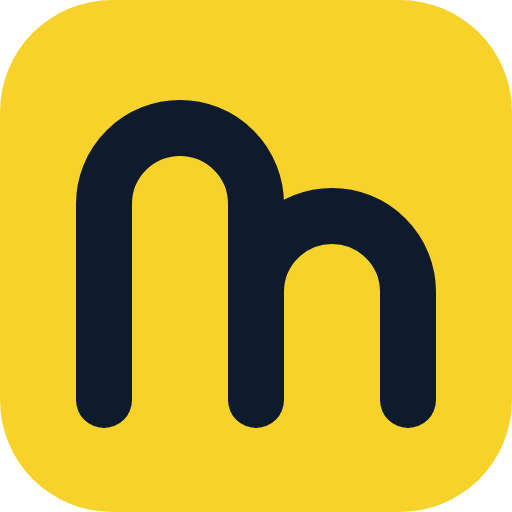
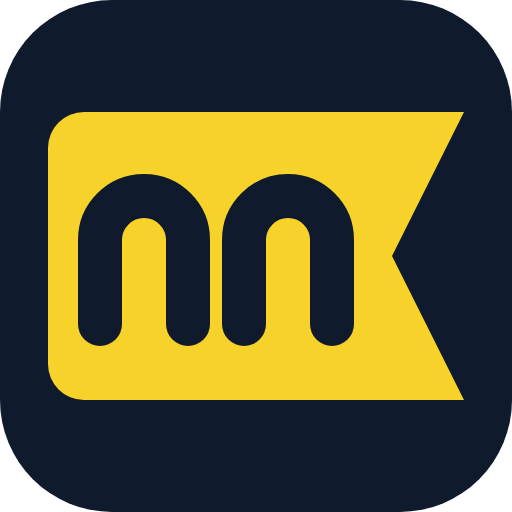
브랜드: 심볼을 후보 A(nn 라벨 태그)로 확정
mark.svg, favicon.svg(16px용으로 nn을 굵게 한 판), icon-512, apple-touch-icon,
favicon-32, 플러그인 icon.png, og.png를 교체하고 디자인 문서의 심볼 규칙을 고쳤다.

diff --git a/web/styleguide.html b/web/styleguide.html
@@ -72,7 +72,7 @@
 
   <section class="sg-sec" id="brand" aria-labelledby="h-brand">
     <h2 id="h-brand">브랜드</h2>
-    <p>노란 케이블 라벨에 <code>conn</code>을 적고, 라벨 밖에 서비스 이름을 둡니다. 글자는 글꼴이 아니라 SVG 경로입니다. 계단형 이중 아치는 심볼에만 씁니다.</p>
+    <p>노란 케이블 라벨에 <code>conn</code>을 적고, 라벨 밖에 서비스 이름을 둡니다. 글자는 글꼴이 아니라 SVG 경로입니다. 심볼은 <code>conn</code> 라벨이 <code>nn</code>만 품고 줄어든 노치 태그입니다(인트로 <code>/intro.html</code>).</p>
 
     <h3 class="sg-h3">심볼 <code>mark.svg</code> · 파비콘 <code>favicon.svg</code></h3>
     <div class="sg-row sg-row--end">

diff --git a/docs/design/foundation.md b/docs/design/foundation.md
@@ -46,7 +46,7 @@ home, wiki, memo, agent, session, team, settings, admin, search, plus, check, x,
 
 ## 브랜드와 사진
 - 워드마크: `/assets/brand/wordmark.svg`(밝은 바탕), `/assets/brand/wordmark-on-ink.svg`(잉크 바탕), `/assets/brand/wordmark-connpass.svg`(자매 서비스)
-- 심볼: `/assets/brand/mark.svg`. 계단형 이중 아치는 심볼에만 쓴다.
+- 심볼: `/assets/brand/mark.svg` (노치 있는 노란 라벨 태그 + `nn`). 파비콘은 `/assets/brand/favicon.svg`(16px용으로 굵게 한 판).
 - 사진: `/assets/img/cables-1376.webp`, `/assets/img/cables-800.webp`. 서버 랙의 남색 케이블 다발에 노란 라벨이 감긴 사진. 노란 라벨은 오른쪽 아래 3분의 1에 초점이 맞아 있다. `srcset`으로 쓴다.
 
 ## 지킬 것
